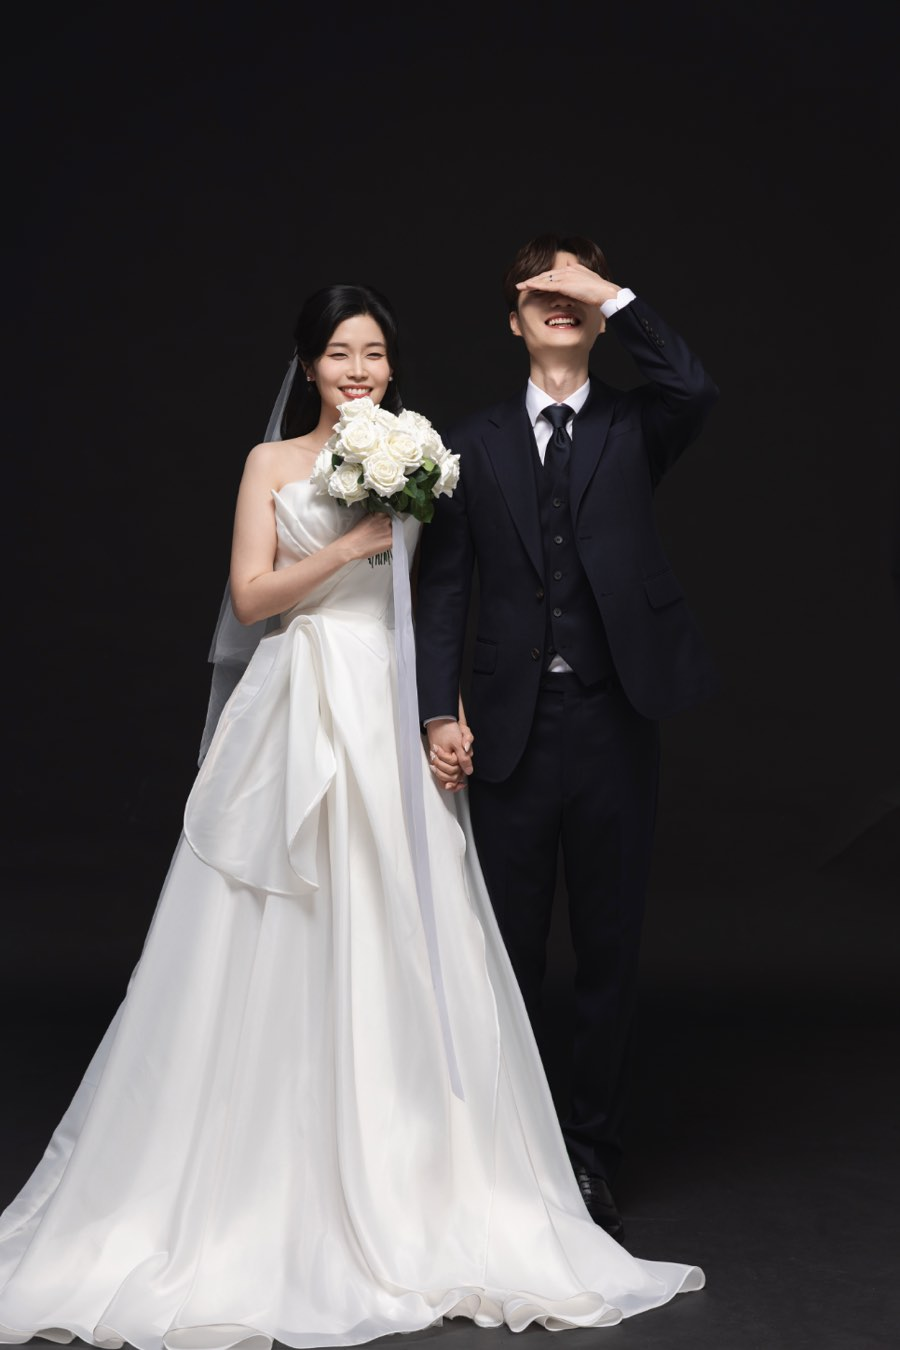
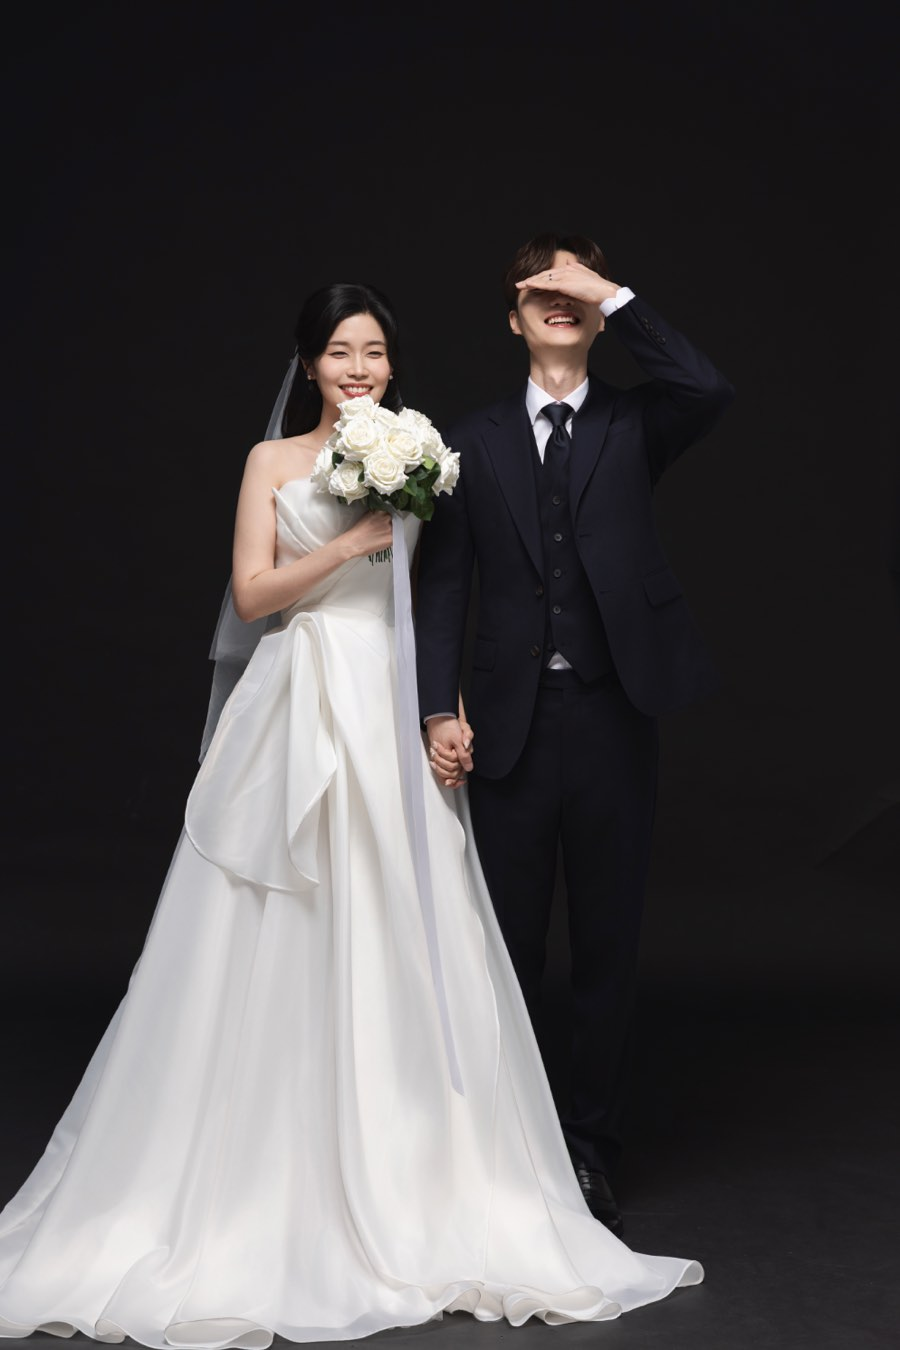
마지막 22번 사진(검정 배경 두 사람)을 새 보정본으로 교체
같은 검정 배경 컷의 더 깨끗한 보정본입니다. 994x1496 (0.6644) ->
900x1350 으로 잘라 나머지와 같은 2:3 (0.66667) 에 맞췄습니다.

원본이 2:3 보다 좁아 높이만 5px 깎였고, 가로는 전폭이라 좌우 이동은
없습니다. 신랑이 손으로 눈을 가린 자세인데도 얼굴 2개가 인식돼
세로 위치는 정상적으로 잡혔습니다.

파일명이 그대로라 캐시 버전을 ?v=11 -> ?v=12 로 올렸습니다.

확인: 22장 비율 전부 0.66667(+가로 1장), 썸네일<->원본 22쌍 픽셀 대조
전부 일치, 캐시 없는 프로필에서 로드 실패 0건 / 버전 누락 0건,
마지막 탭 -> g22.jpg "22 / 22" (900x1350), 다음 -> "1 / 22" 순환 정상.

Assisted-by: Claude Code (Opus 5)

diff --git a/index.html b/index.html
@@ -10,7 +10,7 @@
 <meta property="og:title" content="이수영 ♥ 이정은 결혼합니다">
 <meta property="og:description" content="2026년 12월 12일 토요일 오후 4시, 세인트메리엘 1층 메리엘홀">
 <meta property="og:url" content="https://suyoung-lee.github.io/wedding/">
-<meta property="og:image" content="https://suyoung-lee.github.io/wedding/assets/og.jpg?v=11">
+<meta property="og:image" content="https://suyoung-lee.github.io/wedding/assets/og.jpg?v=12">
 <meta name="description" content="2026년 12월 12일 토요일 오후 4시, 세인트메리엘 1층 메리엘홀">
 <meta name="theme-color" content="#fbfaf7">
 
@@ -283,7 +283,7 @@
   <!-- ══════════ 표지 ══════════ -->
   <header class="cover">
     <div class="photo noSave">
-      <img src="assets/cover.jpg?v=11" alt="신랑 이수영, 신부 이정은" draggable="false">
+      <img src="assets/cover.jpg?v=12" alt="신랑 이수영, 신부 이정은" draggable="false">
     </div>
     <div class="fade"></div>
     <div class="frame"></div>
@@ -354,28 +354,28 @@
   <section>
     <p class="label">Gallery</p>
     <div class="grid collapsed noSave" id="grid">
-      <button class="ph wide" type="button" data-full="assets/g01.jpg?v=11" aria-label="웨딩 사진 1번, 크게 보기"><img src="assets/wide.jpg?v=11" alt="" loading="lazy"></button>
-      <button class="ph" type="button" data-full="assets/g02.jpg?v=11" aria-label="웨딩 사진 2번, 크게 보기"><img src="assets/t02.jpg?v=11" alt="" loading="lazy"></button>
-      <button class="ph" type="button" data-full="assets/g03.jpg?v=11" aria-label="웨딩 사진 3번, 크게 보기"><img src="assets/t03.jpg?v=11" alt="" loading="lazy"></button>
-      <button class="ph" type="button" data-full="assets/g04.jpg?v=11" aria-label="웨딩 사진 4번, 크게 보기"><img src="assets/t04.jpg?v=11" alt="" loading="lazy"></button>
-      <button class="ph" type="button" data-full="assets/g05.jpg?v=11" aria-label="웨딩 사진 5번, 크게 보기"><img src="assets/t05.jpg?v=11" alt="" loading="lazy"></button>
-      <button class="ph" type="button" data-full="assets/g06.jpg?v=11" aria-label="웨딩 사진 6번, 크게 보기"><img src="assets/t06.jpg?v=11" alt="" loading="lazy"></button>
-      <button class="ph" type="button" data-full="assets/g07.jpg?v=11" aria-label="웨딩 사진 7번, 크게 보기"><img src="assets/t07.jpg?v=11" alt="" loading="lazy"></button>
-      <button class="ph" type="button" data-full="assets/g08.jpg?v=11" aria-label="웨딩 사진 8번, 크게 보기"><img src="assets/t08.jpg?v=11" alt="" loading="lazy"></button>
-      <button class="ph" type="button" data-full="assets/g09.jpg?v=11" aria-label="웨딩 사진 9번, 크게 보기"><img src="assets/t09.jpg?v=11" alt="" loading="lazy"></button>
-      <button class="ph" type="button" data-full="assets/g10.jpg?v=11" aria-label="웨딩 사진 10번, 크게 보기"><img src="assets/t10.jpg?v=11" alt="" loading="lazy"></button>
-      <button class="ph" type="button" data-full="assets/g11.jpg?v=11" aria-label="웨딩 사진 11번, 크게 보기"><img src="assets/t11.jpg?v=11" alt="" loading="lazy"></button>
-      <button class="ph" type="button" data-full="assets/g12.jpg?v=11" aria-label="웨딩 사진 12번, 크게 보기"><img src="assets/t12.jpg?v=11" alt="" loading="lazy"></button>
-      <button class="ph" type="button" data-full="assets/g13.jpg?v=11" aria-label="웨딩 사진 13번, 크게 보기"><img src="assets/t13.jpg?v=11" alt="" loading="lazy"></button>
-      <button class="ph" type="button" data-full="assets/g14.jpg?v=11" aria-label="웨딩 사진 14번, 크게 보기"><img src="assets/t14.jpg?v=11" alt="" loading="lazy"></button>
-      <button class="ph" type="button" data-full="assets/g15.jpg?v=11" aria-label="웨딩 사진 15번, 크게 보기"><img src="assets/t15.jpg?v=11" alt="" loading="lazy"></button>
-      <button class="ph" type="button" data-full="assets/g16.jpg?v=11" aria-label="웨딩 사진 16번, 크게 보기"><img src="assets/t16.jpg?v=11" alt="" loading="lazy"></button>
-      <button class="ph" type="button" data-full="assets/g17.jpg?v=11" aria-label="웨딩 사진 17번, 크게 보기"><img src="assets/t17.jpg?v=11" alt="" loading="lazy"></button>
-      <button class="ph" type="button" data-full="assets/g18.jpg?v=11" aria-label="웨딩 사진 18번, 크게 보기"><img src="assets/t18.jpg?v=11" alt="" loading="lazy"></button>
-      <button class="ph" type="button" data-full="assets/g19.jpg?v=11" aria-label="웨딩 사진 19번, 크게 보기"><img src="assets/t19.jpg?v=11" alt="" loading="lazy"></button>
-      <button class="ph" type="button" data-full="assets/g20.jpg?v=11" aria-label="웨딩 사진 20번, 크게 보기"><img src="assets/t20.jpg?v=11" alt="" loading="lazy"></button>
-      <button class="ph" type="button" data-full="assets/g21.jpg?v=11" aria-label="웨딩 사진 21번, 크게 보기"><img src="assets/t21.jpg?v=11" alt="" loading="lazy"></button>
-      <button class="ph" type="button" data-full="assets/g22.jpg?v=11" aria-label="웨딩 사진 22번, 크게 보기"><img src="assets/t22.jpg?v=11" alt="" loading="lazy"></button>
+      <button class="ph wide" type="button" data-full="assets/g01.jpg?v=12" aria-label="웨딩 사진 1번, 크게 보기"><img src="assets/wide.jpg?v=12" alt="" loading="lazy"></button>
+      <button class="ph" type="button" data-full="assets/g02.jpg?v=12" aria-label="웨딩 사진 2번, 크게 보기"><img src="assets/t02.jpg?v=12" alt="" loading="lazy"></button>
+      <button class="ph" type="button" data-full="assets/g03.jpg?v=12" aria-label="웨딩 사진 3번, 크게 보기"><img src="assets/t03.jpg?v=12" alt="" loading="lazy"></button>
+      <button class="ph" type="button" data-full="assets/g04.jpg?v=12" aria-label="웨딩 사진 4번, 크게 보기"><img src="assets/t04.jpg?v=12" alt="" loading="lazy"></button>
+      <button class="ph" type="button" data-full="assets/g05.jpg?v=12" aria-label="웨딩 사진 5번, 크게 보기"><img src="assets/t05.jpg?v=12" alt="" loading="lazy"></button>
+      <button class="ph" type="button" data-full="assets/g06.jpg?v=12" aria-label="웨딩 사진 6번, 크게 보기"><img src="assets/t06.jpg?v=12" alt="" loading="lazy"></button>
+      <button class="ph" type="button" data-full="assets/g07.jpg?v=12" aria-label="웨딩 사진 7번, 크게 보기"><img src="assets/t07.jpg?v=12" alt="" loading="lazy"></button>
+      <button class="ph" type="button" data-full="assets/g08.jpg?v=12" aria-label="웨딩 사진 8번, 크게 보기"><img src="assets/t08.jpg?v=12" alt="" loading="lazy"></button>
+      <button class="ph" type="button" data-full="assets/g09.jpg?v=12" aria-label="웨딩 사진 9번, 크게 보기"><img src="assets/t09.jpg?v=12" alt="" loading="lazy"></button>
+      <button class="ph" type="button" data-full="assets/g10.jpg?v=12" aria-label="웨딩 사진 10번, 크게 보기"><img src="assets/t10.jpg?v=12" alt="" loading="lazy"></button>
+      <button class="ph" type="button" data-full="assets/g11.jpg?v=12" aria-label="웨딩 사진 11번, 크게 보기"><img src="assets/t11.jpg?v=12" alt="" loading="lazy"></button>
+      <button class="ph" type="button" data-full="assets/g12.jpg?v=12" aria-label="웨딩 사진 12번, 크게 보기"><img src="assets/t12.jpg?v=12" alt="" loading="lazy"></button>
+      <button class="ph" type="button" data-full="assets/g13.jpg?v=12" aria-label="웨딩 사진 13번, 크게 보기"><img src="assets/t13.jpg?v=12" alt="" loading="lazy"></button>
+      <button class="ph" type="button" data-full="assets/g14.jpg?v=12" aria-label="웨딩 사진 14번, 크게 보기"><img src="assets/t14.jpg?v=12" alt="" loading="lazy"></button>
+      <button class="ph" type="button" data-full="assets/g15.jpg?v=12" aria-label="웨딩 사진 15번, 크게 보기"><img src="assets/t15.jpg?v=12" alt="" loading="lazy"></button>
+      <button class="ph" type="button" data-full="assets/g16.jpg?v=12" aria-label="웨딩 사진 16번, 크게 보기"><img src="assets/t16.jpg?v=12" alt="" loading="lazy"></button>
+      <button class="ph" type="button" data-full="assets/g17.jpg?v=12" aria-label="웨딩 사진 17번, 크게 보기"><img src="assets/t17.jpg?v=12" alt="" loading="lazy"></button>
+      <button class="ph" type="button" data-full="assets/g18.jpg?v=12" aria-label="웨딩 사진 18번, 크게 보기"><img src="assets/t18.jpg?v=12" alt="" loading="lazy"></button>
+      <button class="ph" type="button" data-full="assets/g19.jpg?v=12" aria-label="웨딩 사진 19번, 크게 보기"><img src="assets/t19.jpg?v=12" alt="" loading="lazy"></button>
+      <button class="ph" type="button" data-full="assets/g20.jpg?v=12" aria-label="웨딩 사진 20번, 크게 보기"><img src="assets/t20.jpg?v=12" alt="" loading="lazy"></button>
+      <button class="ph" type="button" data-full="assets/g21.jpg?v=12" aria-label="웨딩 사진 21번, 크게 보기"><img src="assets/t21.jpg?v=12" alt="" loading="lazy"></button>
+      <button class="ph" type="button" data-full="assets/g22.jpg?v=12" aria-label="웨딩 사진 22번, 크게 보기"><img src="assets/t22.jpg?v=12" alt="" loading="lazy"></button>
     </div>
     <button class="more" type="button" id="more">사진 더보기<span class="chev" aria-hidden="true"></span></button>
   </section>
@@ -388,8 +388,8 @@
     <h2>세인트메리엘</h2>
     <p class="sub">1층 메리엘홀</p>
 
-    <a class="mapWrap noSave" href="assets/map-full.png?v=11" target="_blank" rel="noopener">
-      <img src="assets/map.png?v=11" alt="세인트메리엘 약도" loading="lazy" draggable="false">
+    <a class="mapWrap noSave" href="assets/map-full.png?v=12" target="_blank" rel="noopener">
+      <img src="assets/map.png?v=12" alt="세인트메리엘 약도" loading="lazy" draggable="false">
     </a>
     <p class="mapHint">약도를 누르면 크게 볼 수 있습니다</p>
 

diff --git a/build_assets.py b/build_assets.py
@@ -18,8 +18,8 @@ OUT = "assets"
 # index.html 의 이미지 URL 뒤 ?v=N 캐시 버전. 파일명을 그대로 두고 사진 내용만
 # 바꾸면 이미 청첩장을 열어본 브라우저가 캐시된 옛 사진을 계속 보여줍니다
 # (썸네일만 바뀌고 뷰어는 옛 사진이 뜨는 식). 사진을 갈아끼울 때마다 올리세요.
-#   sed -i '' 's/?v=[0-9]*/?v=12/g' index.html
-ASSET_V = 11
+#   sed -i '' 's/?v=[0-9]*/?v=13/g' index.html
+ASSET_V = 12
 os.makedirs(OUT, exist_ok=True)
 
 A = lambda n: os.path.join(SRC, f"KakaoTalk_20260909_203020487{n}.png")
@@ -64,7 +64,7 @@ ORDER = [
     # 검정 배경 스튜디오 (맨 뒤)
     (A("_16"), "검정 배경 스튜디오 - 신부 정면"),
     (A("_15"), "검정 배경 스튜디오 - 신랑"),
-    (N("E_검정두사람"),   "검정 배경 스튜디오 - 두 사람"),
+    (N("M_검정두사람"),   "검정 배경 스튜디오 - 두 사람"),
 ]
 
 # 크롭 기준점 — 각 사진에서 얼굴(들)의 중심. 원본 대비 비율이라 해상도와 무관.
@@ -96,7 +96,7 @@ FACE = [
     (0.559, 0.192),   # 19 가든 신부
     (0.508, 0.210),   # 20 검정 신부
     (0.435, 0.136),   # 21 검정 신랑
-    (0.505, 0.254),   # 22 검정 두 사람
+    (0.504, 0.255),   # 22 검정 두 사람
 ]
 assert len(FACE) == len(ORDER), "FACE 와 ORDER 개수가 다릅니다"
 
